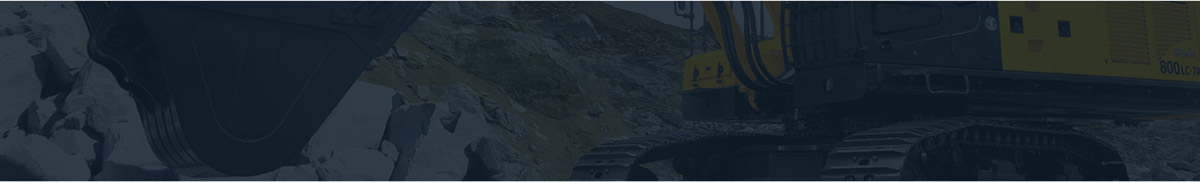
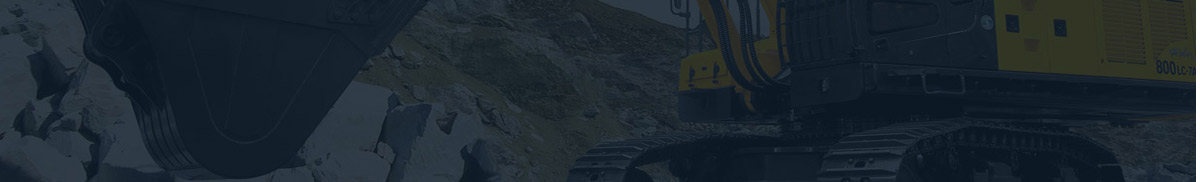
New

diff --git a/css/style.css b/css/style.css
@@ -4,7 +4,7 @@
 }
 
 body {
-  width: 1200px;
+  min-width: 1200px;
   margin: 0 auto;
   background-color: #fff;
   font-family: "PT Sans", sans-serif;
@@ -78,6 +78,9 @@ ul.menu_list li{
 .promo {
   height: 465px;
   background-image: url(../img/promo.jpg);
+  -webkit-background-size: cover;
+background-size: cover;
+background-repeat: no-repeat;
   position: relative;
   margin-top: 14px;
 }
@@ -110,11 +113,14 @@ ul.menu_list li{
 .btn-promo {margin: 23px 0 0 380px;}
 
 /*Блок-форма Заказать консультацию*/
+
 .form {
   background-color: #202e3b;
   height: 175px;
-  overflow: hidden;
+  margin-top: 14px;
+  position: relative;
 }
+.overflow {overflow: hidden;}
 
 .form-title {
   padding: 24px 0 30px 0;
@@ -264,8 +270,35 @@ tr.tr-dg th {font-weight: bold;}
 .blue_block {
   height: 428px;
   background-color: #202e3b;
-  overflow: hidden;
+  position: relative;
+  margin-top: 14px;
 }
+.blue_block:before{
+  content:"";
+  position: absolute;
+  top: -14px;
+  width: 100%;
+  height: 14px;
+  background-image: 
+  linear-gradient(130deg, #ffcd34 30%, #000 30%, #000 65%, #ffcd34 65%);
+  background-size: 25px 14px;
+  background-repeat: repeat-x;}
+
+.map_stripes {
+  position: relative;
+  margin-top: 14px;
+}
+.map_stripes:before{
+  content:"";
+  position: absolute;
+  top: -14px;
+  width: 100%;
+  height: 14px;
+  background-image: 
+  linear-gradient(130deg, #ffcd34 30%, #000 30%, #000 65%, #ffcd34 65%);
+  background-size: 25px 14px;
+  background-repeat: repeat-x;}
+
 .title-w {
 color: #fff;
   font-size: 26px;
@@ -360,6 +393,19 @@ padding-right: 0;
   background-size: 25px 14px;
   background-repeat: repeat-x;}
 
+  .form:before{
+  content:"";
+  position: absolute;
+  top: -14px;
+  width: 100%;
+  height: 14px;
+  background-image: 
+  linear-gradient(130deg, #ffcd34 30%, #000 30%, #000 65%, #ffcd34 65%);
+  background-size: 25px 14px;
+  background-repeat: repeat-x;}
+
+  /*Карта*/
+  .map {text-align: center;}
 
 /*КАТАЛОГ*/
 
@@ -367,8 +413,23 @@ padding-right: 0;
 .rent {
 height: 182px;
 background-image: url(../img/catalog.jpg);
-overflow: hidden;
+-webkit-background-size: cover;
+background-size: cover;
+background-repeat: no-repeat;
+margin-top: 14px;
+position: relative;
 }
+.rent:before{
+  content:"";
+  position: absolute;
+  top: -14px;
+  width: 100%;
+  height: 14px;
+  background-image: 
+  linear-gradient(130deg, #ffcd34 30%, #000 30%, #000 65%, #ffcd34 65%);
+  background-size: 25px 14px;
+  background-repeat: repeat-x;}
+
 .prorent {
   width: 730px;
   float: left;
@@ -526,6 +587,9 @@ margin-left: 562px;
   clear: both;
  height: 517px;
  background-image: url(../img/special_offer.jpg);
+ -webkit-background-size: cover;
+background-size: cover;
+background-repeat: no-repeat;
 }
 
 .cat-sp-title {
@@ -547,8 +611,23 @@ color: #d12222;
 .portfolio {
   height: 100px;
   background-image: url(../img/portfolio.jpg);
-  overflow: hidden;
+  -webkit-background-size: cover;
+  background-size: cover;
+  background-repeat: no-repeat;
+ position: relative;
+ margin-top: 14px;
 }
+.portfolio:before{
+  content:"";
+  position: absolute;
+  top: -14px;
+  width: 100%;
+  height: 14px;
+  background-image: 
+  linear-gradient(130deg, #ffcd34 30%, #000 30%, #000 65%, #ffcd34 65%);
+  background-size: 25px 14px;
+  background-repeat: repeat-x;}
+
 .port-title{
   float: left;
   font-size: 22px;
@@ -572,13 +651,20 @@ margin-top: 25px;
 }
 .ex-block1 {
 background-image: url(../img/ex-block1.jpg);
+-webkit-background-size: cover;
+background-size: cover;
+background-repeat: no-repeat;
 }
 .ex-block2 {
 background-image: url(../img/ex-block2.jpg);
+-webkit-background-size: cover;
+background-size: cover;
+background-repeat: no-repeat;
 }
 .ex-block3 {
 background-image: url(../img/ex-block3.jpg);
--webkit-background-size: contain;
+-webkit-background-size: cover;
+background-repeat: no-repeat;
 height: 475px;
 }
 .example {
@@ -614,10 +700,27 @@ line-height: 20px;
 /*Блок контакты*/
 
 .contacts {
-  overflow: hidden;
   height: 105px;
   background-image: url(../img/contacts.jpg);
+  -webkit-background-size: cover;
+background-size: cover;
+background-repeat: no-repeat;
+position: relative;
+margin-top: 14px;
 }
+
+.contacts:before{
+  content:"";
+  position: absolute;
+  top: -14px;
+  width: 100%;
+  height: 14px;
+  background-image: 
+  linear-gradient(130deg, #ffcd34 30%, #000 30%, #000 65%, #ffcd34 65%);
+  background-size: 25px 14px;
+  background-repeat: repeat-x;}
+
+
 .cont-title {
   float: left;
   display: inline-block;

diff --git a/index.html b/index.html
@@ -34,16 +34,19 @@
   <!-- Блок Вместе мы справимся -->
     
   <div class="promo">
+  <div class="overflow">
     <div class="container">
       <h1 class="title-wb">Вместе мы справимся!</h1>
       <p class="promo_text">Спецтех24 - это сеть пунктов аренды спецтехники Cat, оборудования </p><p class="promo_text">и специализированных инструментов для выполнения большинства </p><p class="promo_text">видов работ.</p>
       <a href="" class="btn-promo btn-black">Перейти в каталог ></a>
     </div>
   </div>
+  </div>
 
    <!-- Блок Заказать консультацию -->
   
   <div class="form">
+  <div class="overflow">
     <div class="container">
       <h2 class="title-y form-title">Закажите бесплатную консультацию по подбору подходящей техники</h2>
       <div class="btn black">
@@ -54,7 +57,8 @@
       </div>
   </div>
   </div>
-  
+  </div>
+
   <!-- Блок Преимущества -->
   
   <div class="advantages">
@@ -136,6 +140,7 @@
 
  
   <div class="blue_block">
+   <div class="overflow">
   <div class="container">
     <div class="numbers">
       <h2 class="title-w">Спецтех <span class="nobold">в цифрах</span></h2>
@@ -163,10 +168,10 @@
     </div>
   </div>
   </div>
-
+</div>
 
   <!-- Блок Карта -->
-  
+  <div class="map_stripes"></div>
   <div class="map">
     <iframe src="https://www.google.com/maps/embed?pb=!1m14!1m12!1m3!1d31980.426249969136!2d30.355744099999995!3d59.9358484!2m3!1f0!2f0!3f0!3m2!1i1024!2i768!4f13.1!5e0!3m2!1sru!2sru!4v1442920366908" width="1200" height="500" frameborder="0" style="border:0" allowfullscreen></iframe>
   </div>  

diff --git a/portfolio.html b/portfolio.html
@@ -34,6 +34,7 @@
   <!-- Портфолио меню -->
 
  <div class="portfolio">
+  <div class="overflow">
  <div class="container">
   <h1 class="port-title">Портфолио</h1>
     <div class="port-list">
@@ -47,6 +48,7 @@
     </div>
   </div>
  </div>
+</div>
 
   <!-- Примеры работ -->
       <article class="ex-block ex-block1">
@@ -85,6 +87,7 @@
    <!-- Блок Заказать консультацию -->
 
   <div class="form">
+   <div class="overflow">
    <div class="container">
     <h2 class="title-y form-title">Закажите бесплатную консультацию по подбору подходяще техники</h2>
     <div class="btn black">
@@ -93,6 +96,7 @@
         <input type="date" name="date" class="btn-f btn-black" placeholder="Выберите дату">
         <a href="#" class="btn-fy btn-yellow">Заказать консультацию</a>
     </div>
+  </div>
   </div>
   </div>
 

diff --git a/catalog.html b/catalog.html
@@ -34,6 +34,7 @@
   <!-- Промо блок -->
 
 <div class="rent">
+ <div class="overflow">
 <div class="container">
 <div class="prorent">
   <h2 class="rent-title">Техника: Экскаваторы в аренду</h2>
@@ -44,7 +45,8 @@
 <div class="consult">
 <a href="" class="btn-cons btn-yellow">Мне нужна консультация</a>
 <p class="consult-text">Оставьте заявку, и уже сегодня мы Вам перезвоним.</p>
-  </div>
+</div>
+</div>
 </div>
 </div>
 

diff --git a/contacts.html b/contacts.html
@@ -35,12 +35,15 @@
   <!-- Блок контакты -->
   
 <div class="contacts">
+ <div class="overflow">
 <div class="container">
   <h1 class="cont-title port-title">Контакты</h1>
   <p class="cont-text">Свяжитесь с нами, и всё будет хорошо</p>
   <a href="#" class="btn-yellow btn-cont">Мне нужна консультация</a>
 </div>  
 </div>
+</div>
+
   <!-- Блок карта и форма -->
   
   <div class="map-form">
